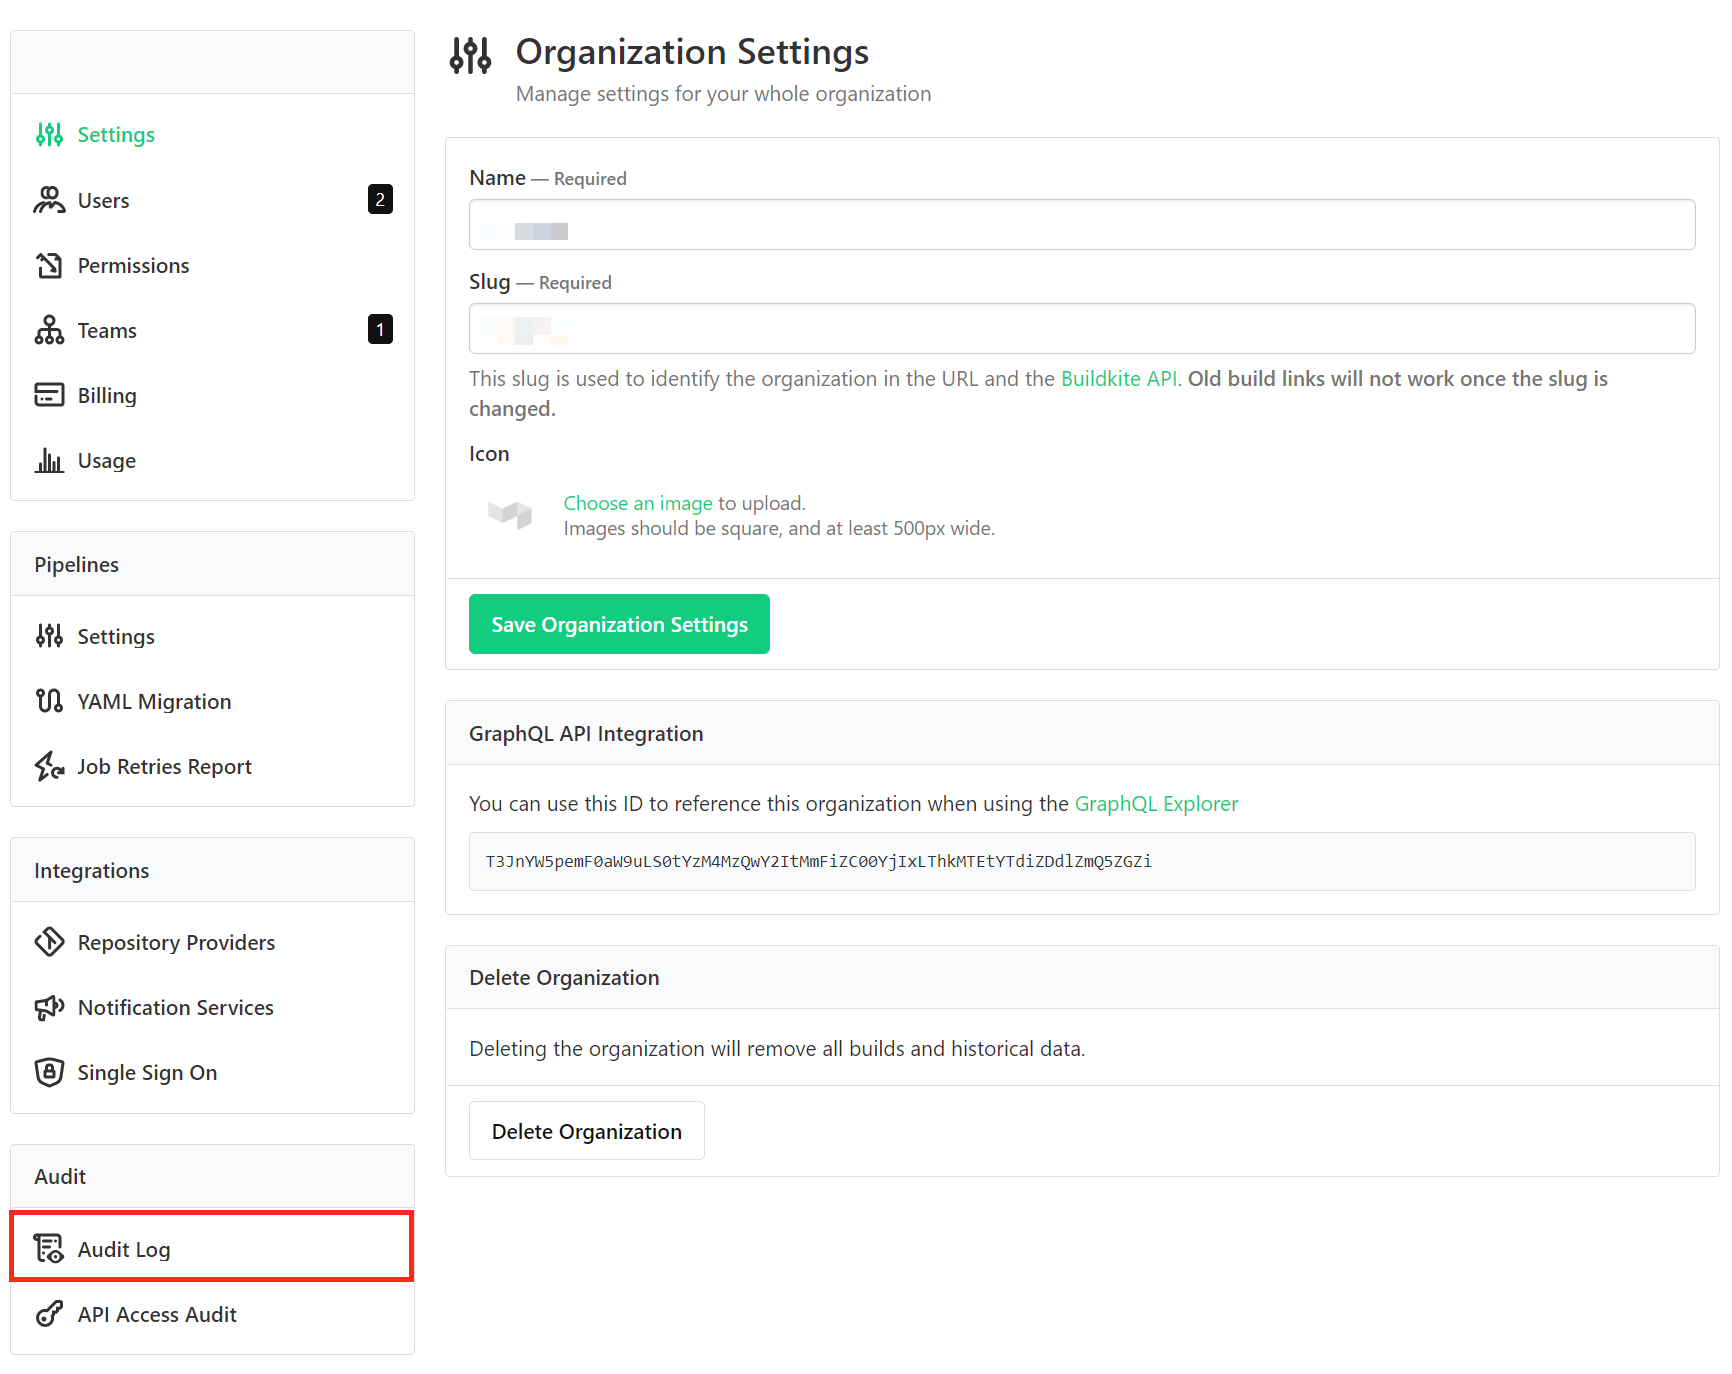
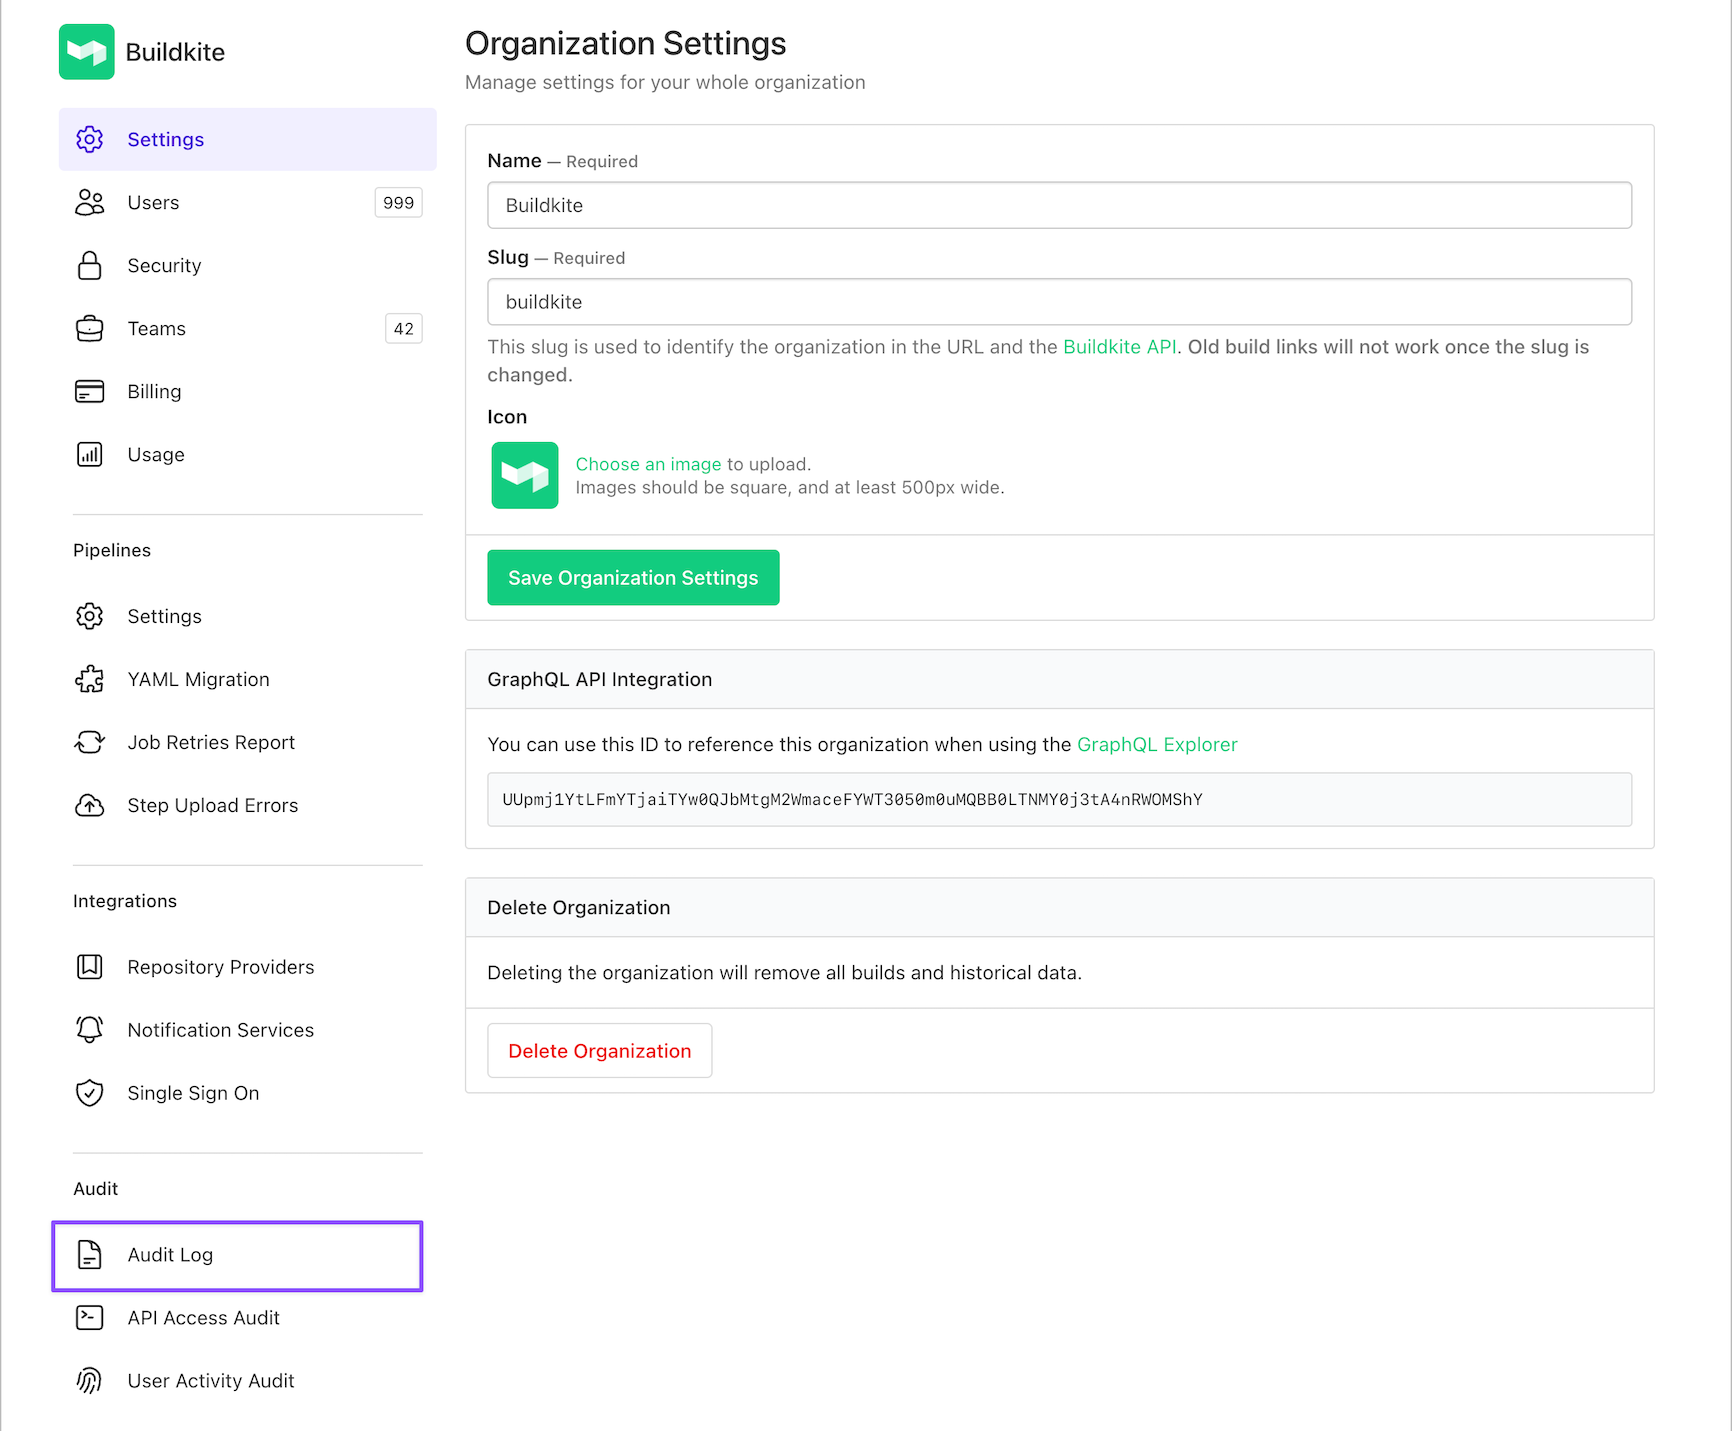
Update screenshot that highlights audit log

diff --git a/pages/pipelines/audit_log.md b/pages/pipelines/audit_log.md
@@ -6,7 +6,7 @@ toc: false
 
 Audit Log is an interactive track record of all organization activity. This feature is only available to Buildkite customers on the [Enterprise](https://buildkite.com/pricing) plan, and can be found in Organization Settings in the Audit section.
 
-<%= image "audit-log-in-organization-settings.png", width: 1732/2, height: 1374/2, alt: "Audit Log in Organization Settings" %>
+<%= image "audit-log-in-organization-settings.png", width: 1732/2, height: 1431/2, alt: "Audit Log in Organization Settings" %>
 
 Audit Log contains two tabs:
 
